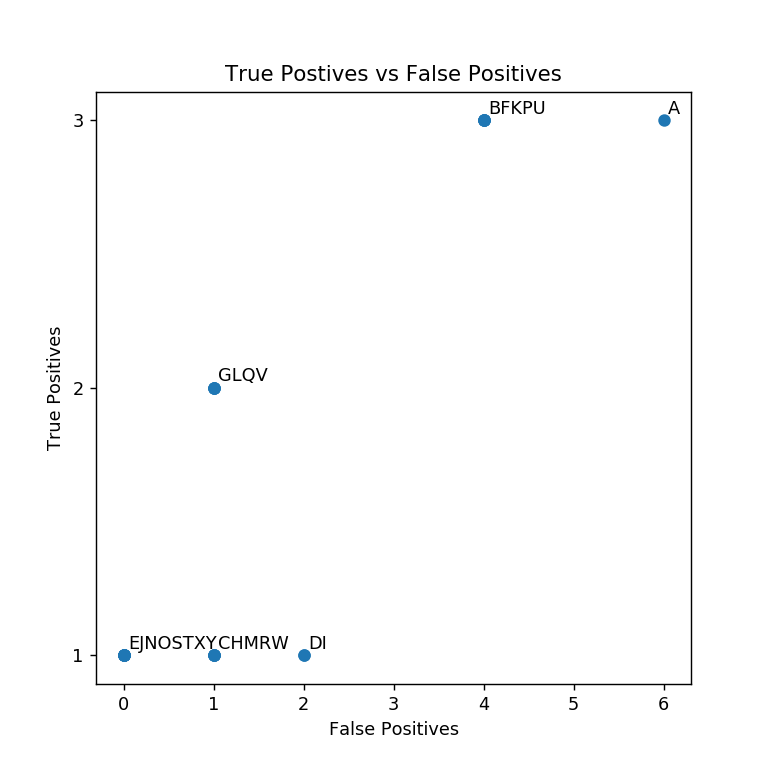
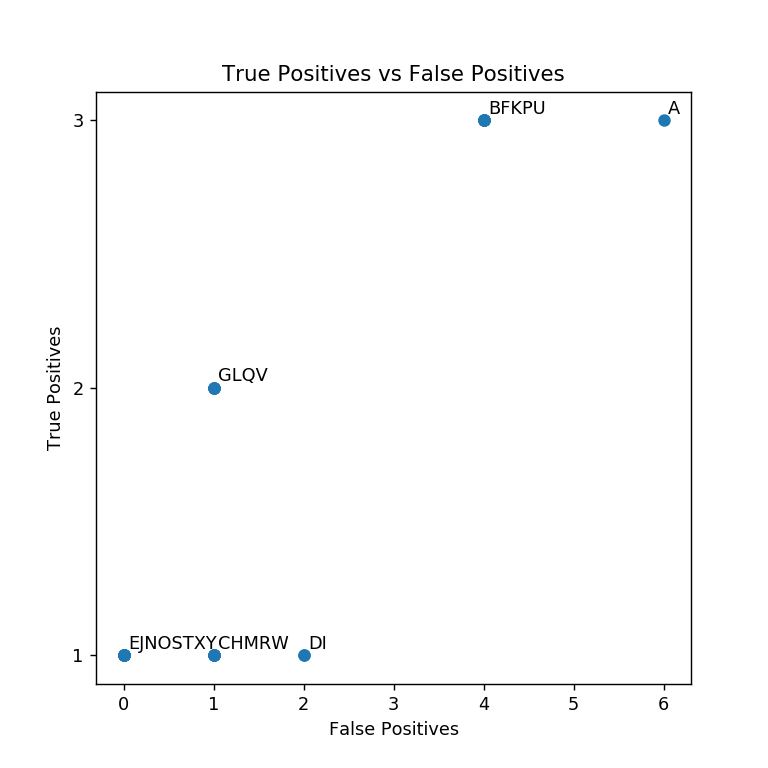
Typo.

Changed region(s): [[0.2812, 0.0625, 0.75, 0.125]]

diff --git a/generate_roc_curve.py b/generate_roc_curve.py
@@ -33,7 +33,7 @@ def generate_plot_tpvfp(all_results):
     fig, ax = plt.subplots(figsize=(6, 6), dpi=128)
     ax.scatter(x_values, y_values)
 
-    ax.set_title('True Postives vs False Positives')
+    ax.set_title('True Positives vs False Positives')
     ax.set_xlabel('False Positives')
     ax.set_ylabel('True Positives')
 
